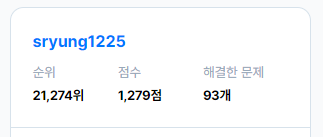
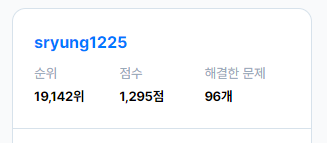
프로그래머스 점수 업데이트 : 1,279 -> 1,295 (+16)

diff --git a/README.md b/README.md
@@ -7,7 +7,7 @@
 문제 풀이를 완료하는 경우 커밋을 진행합니다.
 
 ### 🌱 현재 단계
-- 5주차
+- 7주차
 - 프로그래머스 코딩테스트 입문 Level 0 풀이
 - ![프로그래머스 현재 상태](./assets/status_programmers.PNG)
 - 제주코딩베이스캠프 : JS 100제 풀이
